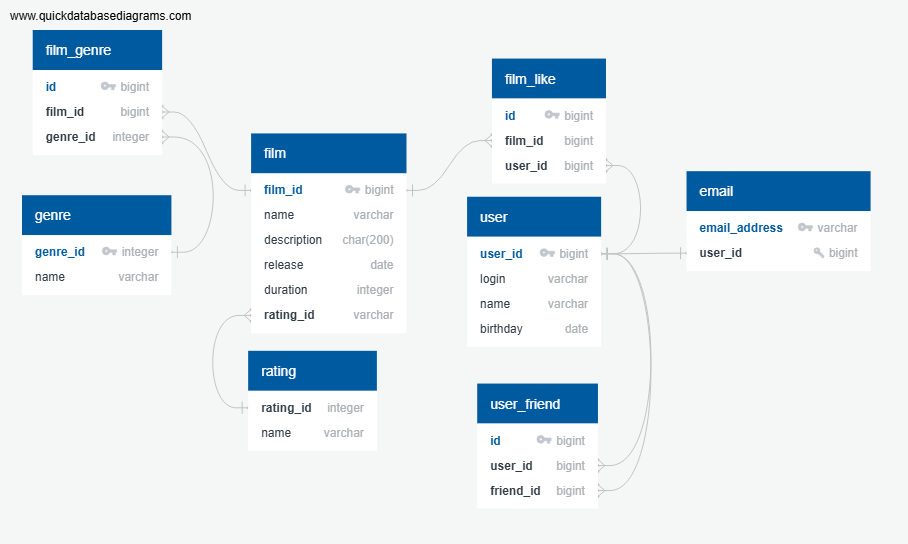
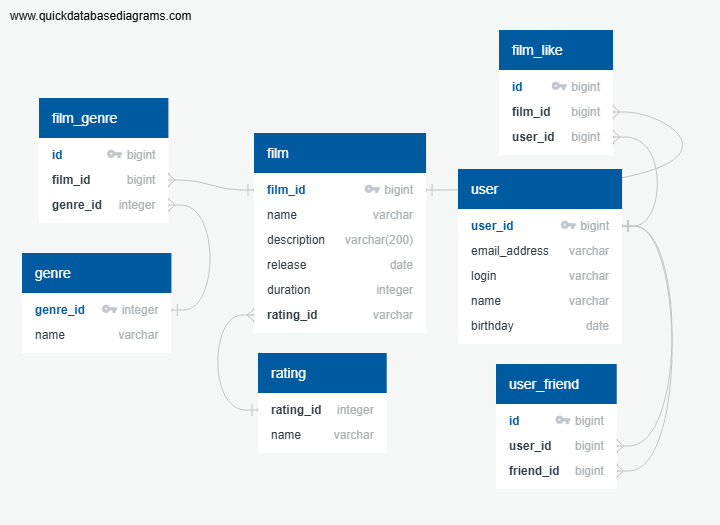
Объединиить таблицы email и user

diff --git a/README.md b/README.md
@@ -56,7 +56,7 @@ film
 -
 film_id bigint PK
 name varchar
-description char(200)
+description varchar(200)
 release date
 duration integer
 rating_id varchar FK >- rating.rating_id
@@ -65,15 +65,10 @@ rating_id varchar FK >- rating.rating_id
 user
 -
 user_id bigint PK
+email_address varchar
 login varchar
 name varchar
 birthday date
-
-
-email
--
-email_address varchar PK
-user_id bigint UNIQUE FK - user.user_id
 
 
 rating
